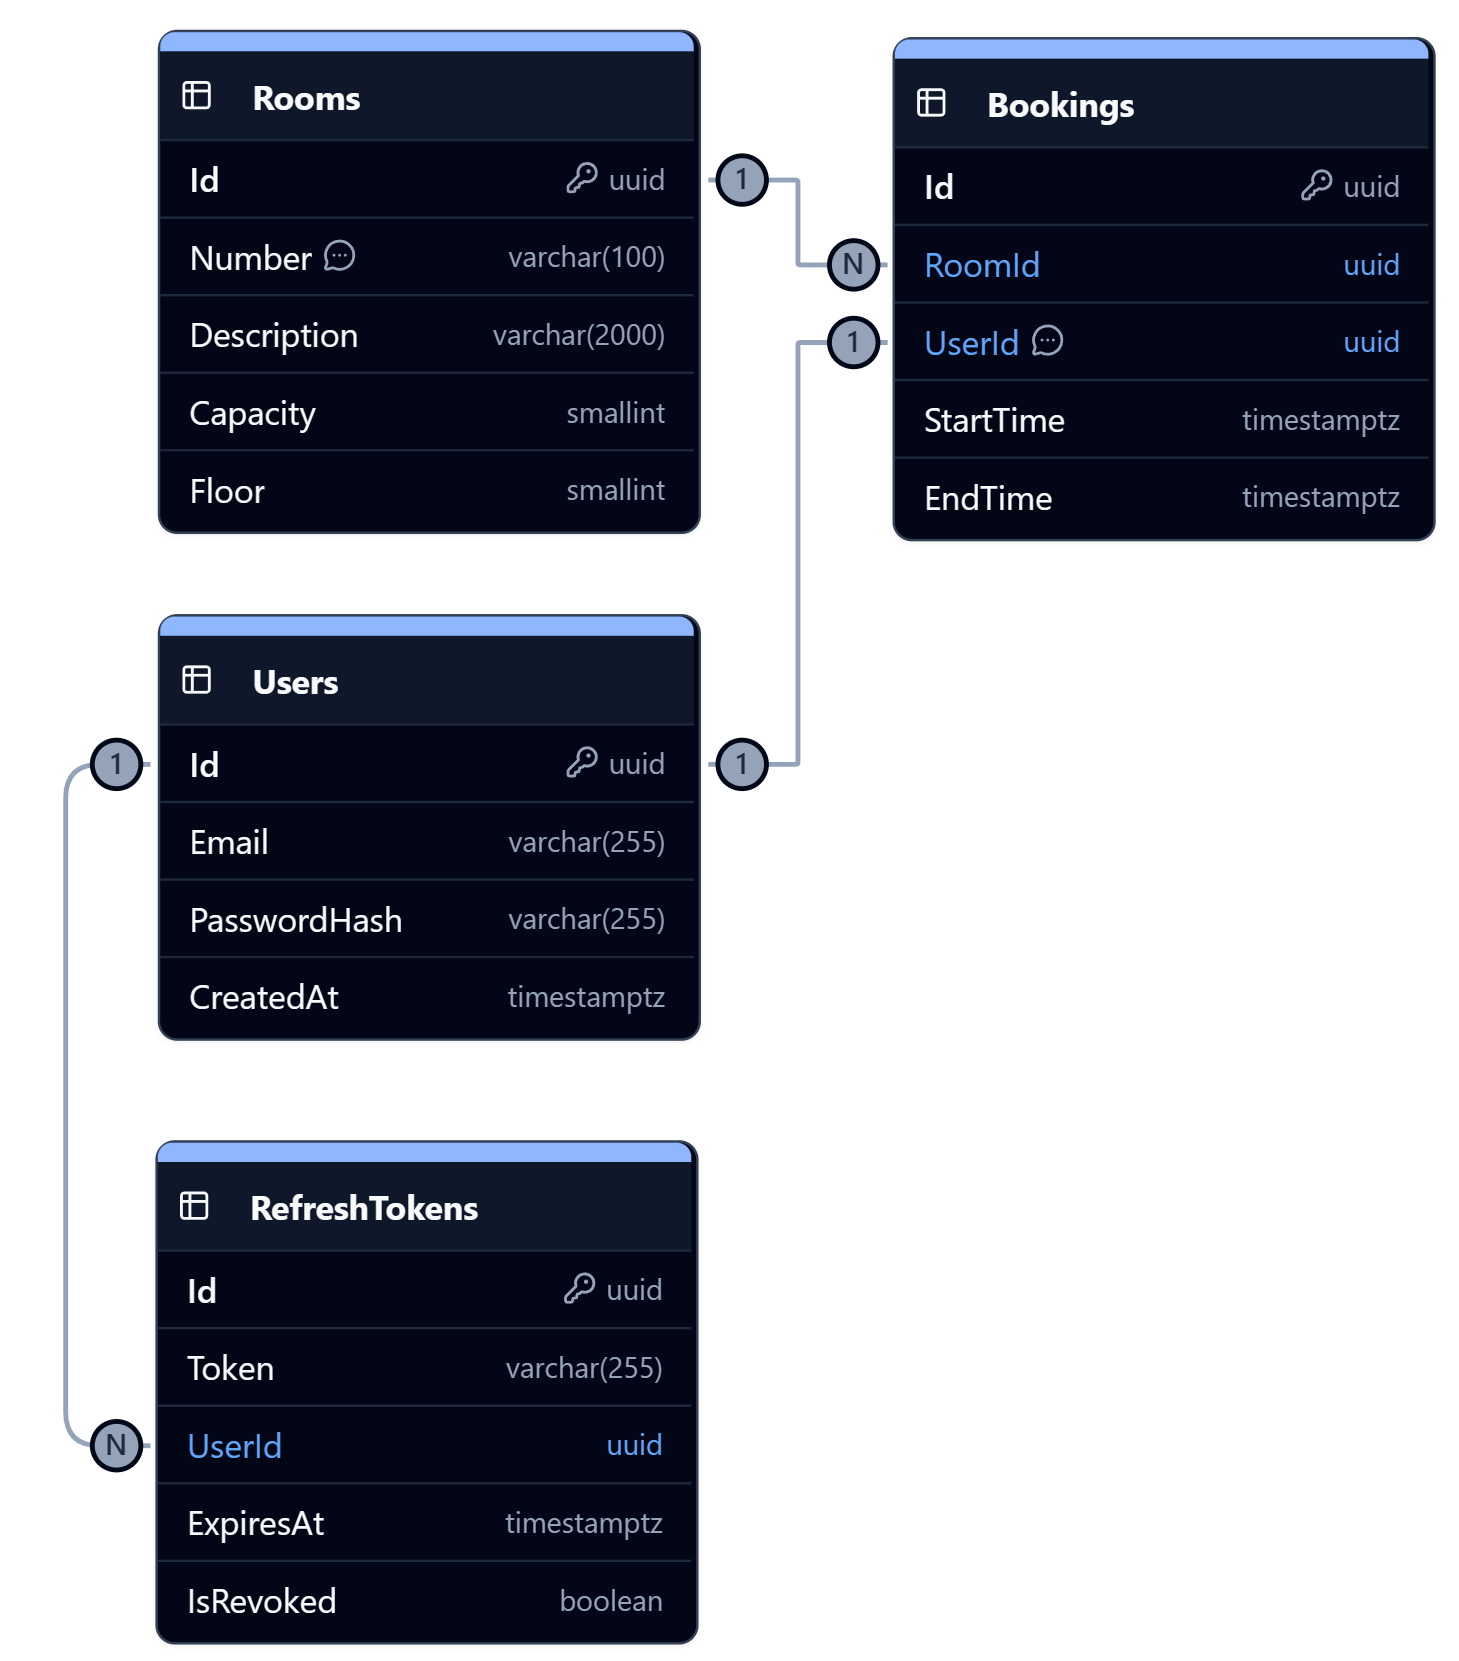
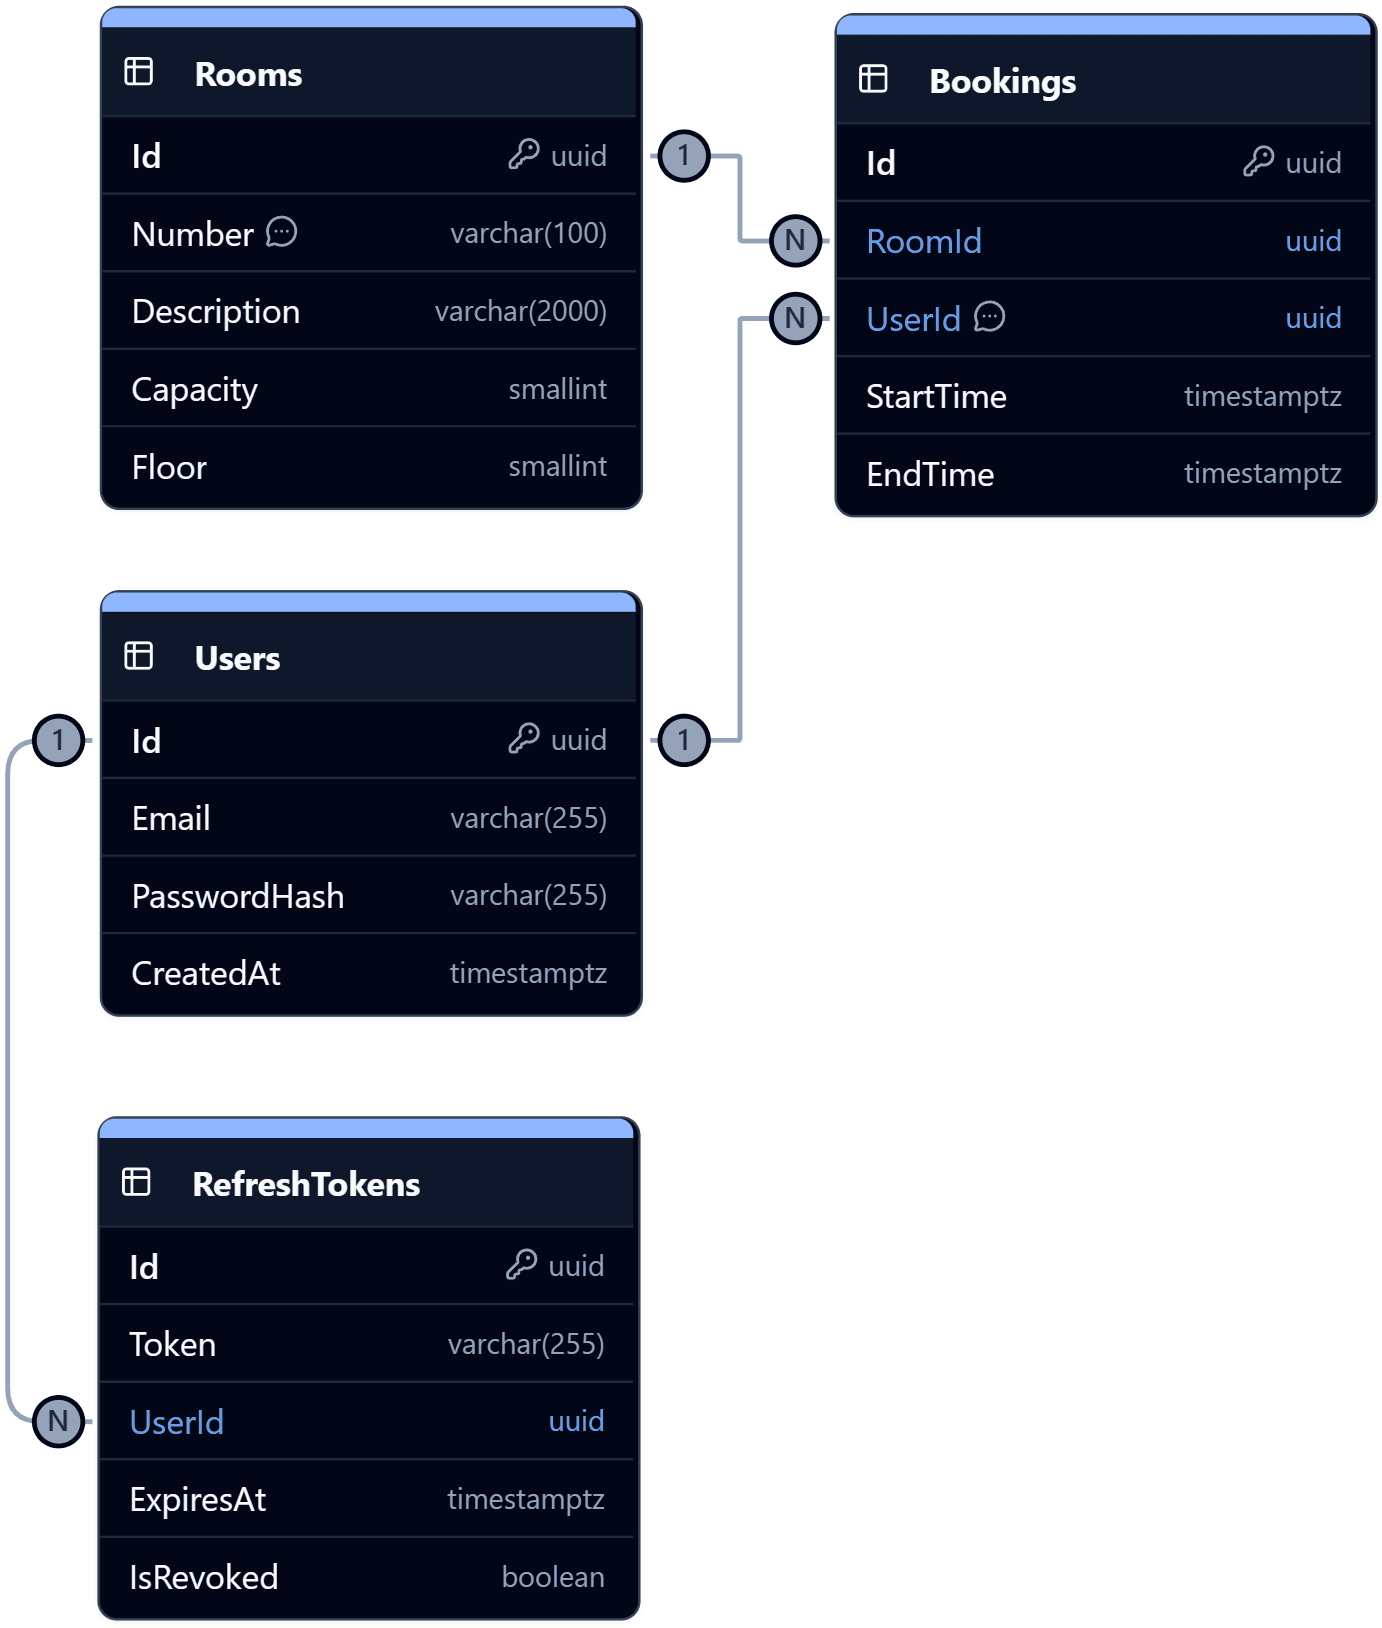
fix(docs(DB): исправлены неверные связи в схеме данных

Changed region(s): [[0.0, 0.0, 1.0, 1.0]]

diff --git a/README.md b/README.md
@@ -8,52 +8,62 @@
 ```sql
 CREATE SCHEMA IF NOT EXISTS "public";
 
-CREATE TABLE "public"."RefreshTokens" (
-"Id" uuid NOT NULL,
-"Token" varchar(255) NOT NULL,
-"UserId" uuid NOT NULL,
-"ExpiresAt" timestamptz NOT NULL,
-"IsRevoked" boolean NOT NULL DEFAULT false,
-PRIMARY KEY ("Id")
+CREATE TABLE "public"."RefreshTokens"
+(
+    "Id"        uuid         NOT NULL,
+    "Token"     varchar(255) NOT NULL,
+    "UserId"    uuid         NOT NULL,
+    "ExpiresAt" timestamptz  NOT NULL,
+    "IsRevoked" boolean      NOT NULL DEFAULT false,
+    PRIMARY KEY ("Id")
 );
 
-CREATE TABLE "public"."Users" (
-"Id" uuid NOT NULL,
-"Email" varchar(255) NOT NULL,
-"PasswordHash" varchar(255) NOT NULL,
-"CreatedAt" timestamptz NOT NULL,
-PRIMARY KEY ("Id")
+CREATE TABLE "public"."Users"
+(
+    "Id"           uuid         NOT NULL,
+    "Email"        varchar(255) NOT NULL,
+    "PasswordHash" varchar(255) NOT NULL,
+    "CreatedAt"    timestamptz  NOT NULL,
+    PRIMARY KEY ("Id")
 );
 
-CREATE TABLE "public"."Rooms" (
-"Id" uuid NOT NULL,
--- Номер кабинета
-"Number" varchar(100) NOT NULL,
-"Description" varchar(2000) NOT NULL,
-"Capacity" smallint NOT NULL,
-"Floor" smallint NOT NULL,
-PRIMARY KEY ("Id")
+CREATE TABLE "public"."Rooms"
+(
+    "Id"          uuid          NOT NULL,
+    -- Номер кабинета
+    "Number"      varchar(100)  NOT NULL,
+    "Description" varchar(2000) NOT NULL,
+    "Capacity"    smallint      NOT NULL,
+    "Floor"       smallint      NOT NULL,
+    PRIMARY KEY ("Id")
 );
-COMMENT ON COLUMN "public"."Rooms"."Number" IS 'Номер кабинета';
+COMMENT
+ON COLUMN "public"."Rooms"."Number" IS 'Номер кабинета';
 
-CREATE TABLE "public"."Bookings" (
-"Id" uuid NOT NULL,
-"RoomId" uuid NOT NULL,
--- Владелец брони
-"UserId" uuid NOT NULL,
-"StartTime" timestamptz NOT NULL,
-"EndTime" timestamptz NOT NULL,
-PRIMARY KEY ("Id"),
-CHECK (StartTime < EndTime)
+CREATE TABLE "public"."Bookings"
+(
+    "Id"        uuid        NOT NULL,
+    "RoomId"    uuid        NOT NULL,
+    -- Владелец брони
+    "UserId"    uuid        NOT NULL,
+    "StartTime" timestamptz NOT NULL,
+    "EndTime"   timestamptz NOT NULL,
+    PRIMARY KEY ("Id"),
+    CHECK (StartTime < EndTime)
 );
-COMMENT ON COLUMN "public"."Bookings"."UserId" IS 'Владелец брони';
+COMMENT
+ON COLUMN "public"."Bookings"."UserId" IS 'Владелец брони';
 -- Indexes
 CREATE INDEX "Bookings_index_2" ON "public"."Bookings" ("RoomId", "StartTime", "EndTime");
 
 -- Foreign key constraints
 -- Schema: public
-ALTER TABLE "public"."RefreshTokens" ADD CONSTRAINT "fk_RefreshTokens_UserId_Users_Id" FOREIGN KEY("UserId") REFERENCES "public"."Users"("Id");
-ALTER TABLE "public"."Bookings" ADD CONSTRAINT "fk_Bookings_RoomId_Rooms_Id" FOREIGN KEY("RoomId") REFERENCES "public"."Rooms"("Id");
-ALTER TABLE "public"."Bookings" ADD CONSTRAINT "fk_Bookings_UserId_Users_Id" FOREIGN KEY("UserId") REFERENCES "public"."Users"("Id");
+ALTER TABLE "public"."RefreshTokens"
+    ADD CONSTRAINT "fk_RefreshTokens_UserId_Users_Id" FOREIGN KEY ("UserId") REFERENCES "public"."Users" ("Id");
+ALTER TABLE "public"."Bookings"
+    ADD CONSTRAINT "fk_Bookings_RoomId_Rooms_Id" FOREIGN KEY ("RoomId") REFERENCES "public"."Rooms" ("Id");
+ALTER TABLE "public"."Bookings"
+    ADD CONSTRAINT "fk_Bookings_UserId_Users_Id" FOREIGN KEY ("UserId") REFERENCES "public"."Users" ("Id");
 ```
+
 </details>